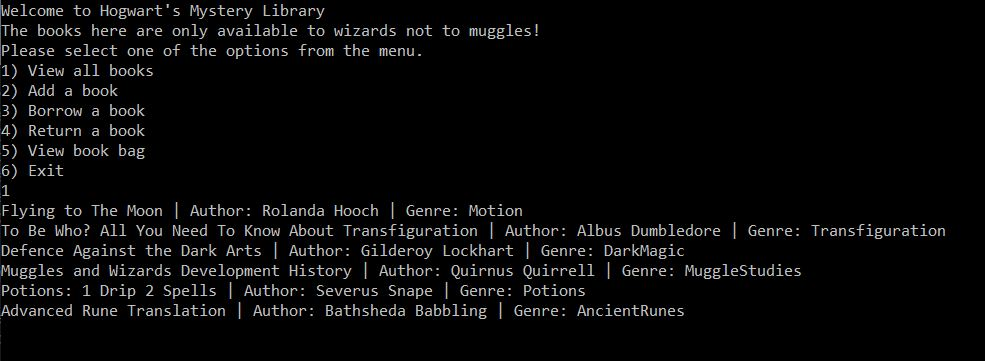
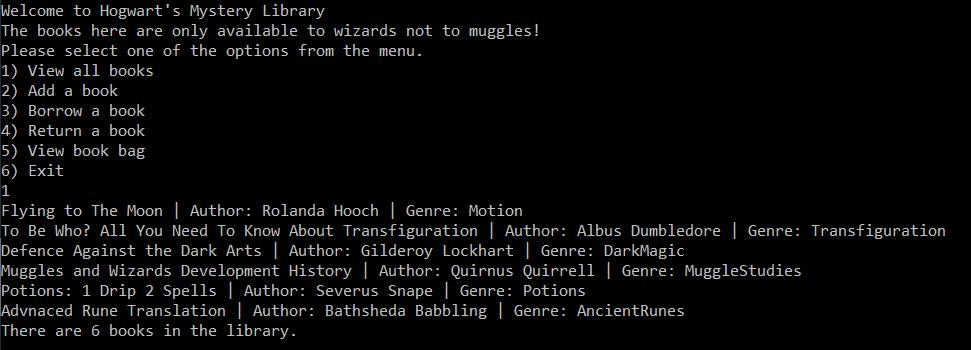
complete BorrowBooks, ReturnBooks, and ViewBookBag methods

Changed region(s): [[0.0, 0.0, 0.9887, 0.9714]]

diff --git a/lab07-collections/lab07-collections/Program.cs b/lab07-collections/lab07-collections/Program.cs
@@ -38,6 +38,8 @@ namespace lab07_collections
                 {
                     case "1":
                         ViewAllBooks();
+                        int totalBooks = HogwartLibrary.Count();
+                        Console.WriteLine($"There are {totalBooks} books in the library.");
                         Console.ReadLine();
                         return true;
 
@@ -58,11 +60,17 @@ namespace lab07_collections
                         return true;
 
                     case "3":
-                        BorrowBooks();
+                        Console.WriteLine("Please enter title of the book that you want to borrow: ");
+                        ViewAllBooks();
+                        string bookBorrowed = Console.ReadLine();
+                        BorrowBooks(bookBorrowed);
                         return true;
 
                     case "4":
-                        ReturnBooks();
+                        Console.WriteLine("Please enter title of the book that you want to return: ");
+                        ViewBookBag();
+                        string bookReturned = Console.ReadLine();
+                        ReturnBooks(bookReturned);
                         return true;
 
                     case "5":
@@ -187,23 +195,50 @@ namespace lab07_collections
                     return false;
                 default:
                     Console.WriteLine("Please enter a valid selection.");
+                    Console.WriteLine("\n");
                     return true;
             }
         }
 
-        static void BorrowBooks()
+        static void BorrowBooks(string title)
         {
-
+            foreach(Book book in HogwartLibrary)
+            {
+                if(book.Title == title)
+                {
+                    BookBag.Add(book);
+                    //HogwartLibrary.Remove(book);
+                }
+            }
         }
 
-        static void ReturnBooks()
+        static void ReturnBooks(string title)
         {
-
+            foreach (Book book in BookBag)
+            {
+                if (book.Title == title)
+                {
+                    HogwartLibrary.Add(book);
+                    //BookBag.Remove(book);
+                }
+            }
         }
 
         static void ViewBookBag()
         {
-
+            int totalBookBag = 0;
+            foreach (var item in BookBag)
+            {
+                totalBookBag++;
+            }
+            if(totalBookBag == 0)
+            {
+                Console.WriteLine("Your book bag is empty.");
+            }
+            foreach (Book book in BookBag)
+            {
+                Console.WriteLine($"{book.Title} | Author: {book.Author.FirstName} {book.Author.LastName} | Genre: {book.Genre}");
+            }
         }
     }
 }

diff --git a/lab07-collections/lab07-collections/Library.cs b/lab07-collections/lab07-collections/Library.cs
@@ -1,6 +1,7 @@
 using System;
 using System.Collections;
 using System.Collections.Generic;
+using System.Linq;
 using System.Text;
 
 namespace lab07_collections
@@ -31,12 +32,44 @@ namespace lab07_collections
             currentIndex++;
         }
 
-        public void Remove(T book)
+        /// <summary>
+        /// Find if the book is inside the library. If yes, remove it from the collection.
+        /// </summary>
+        /// <param name="bookToRemove"></param>
+        public void Remove(T bookToRemove)
         {
+            int bookIndex = -1;
+            for (int i = 0; i < library.Length; i++)
+            {
+                if (library[i].Equals(bookToRemove))
+                {
+                    bookIndex = i;
+                }
+            }
+            //library.Remove(bookIndex) ;
+
+
             // is the item in the collection?
             // find it
             // manipulate array to remove the item
             // eventually send to resize
+        }
+
+        /// <summary>
+        /// Use for loop to loop through library collection and count how many items in there are not null.
+        /// </summary>
+        /// <returns></returns>
+        public int Count()
+        {
+            int totalBooks = 0;
+            for (int i = 0; i < library.Length; i++)
+            {
+                if(library[i] != null)
+                {
+                    totalBooks++;
+                }
+            }
+            return totalBooks;
         }
 
         /// <summary>

diff --git a/README.md b/README.md
@@ -40,18 +40,15 @@ Using the Application - Add New Books
 ![Alt execution capture](/captures/add_books.JPG)
 ![Alt execution capture](/captures/add_books2.JPG)
 
-Using the Application
+Using the Application - Borrow a Book and View Book Bag
 
-![Alt execution capture](/)
+![Alt execution capture](/captures/borrow_books.JPG)
+![Alt execution capture](/captures/borrow_books2.JPG)
 
-Using the Application
+Using the Application - Return a Book
 
-![Alt execution capture](/)
-![Alt execution capture](/)
-
-Application End
-
-![Alt execution capture](/)
+![Alt execution capture](/captures/return_books2.JPG)
+![Alt execution capture](/captures/view_book_bag.JPG)
 
 ## Change Log
 
@@ -60,3 +57,13 @@ Application End
 1.2: Add LoadBook() and ViewAllBooks() methods. - 2019 Oct 23
 
 1.3: Add AddBooks() method. - 2019 Oct 23
+
+1.4: Add Count() method in Library< T > class. - 2019 Nov 02
+
+1.5: Add BorrowBooks() method to remove books from library and add to book bag. - 2019 Nov 02
+
+1.6: Add ReturnBooks() method to remove books from book bag and add to library. - 2019 Nov 02
+
+1.7: Add ViewBookBag() method to show all the books in the book bag. - 2019 Nov 02
+
+1.8: 
